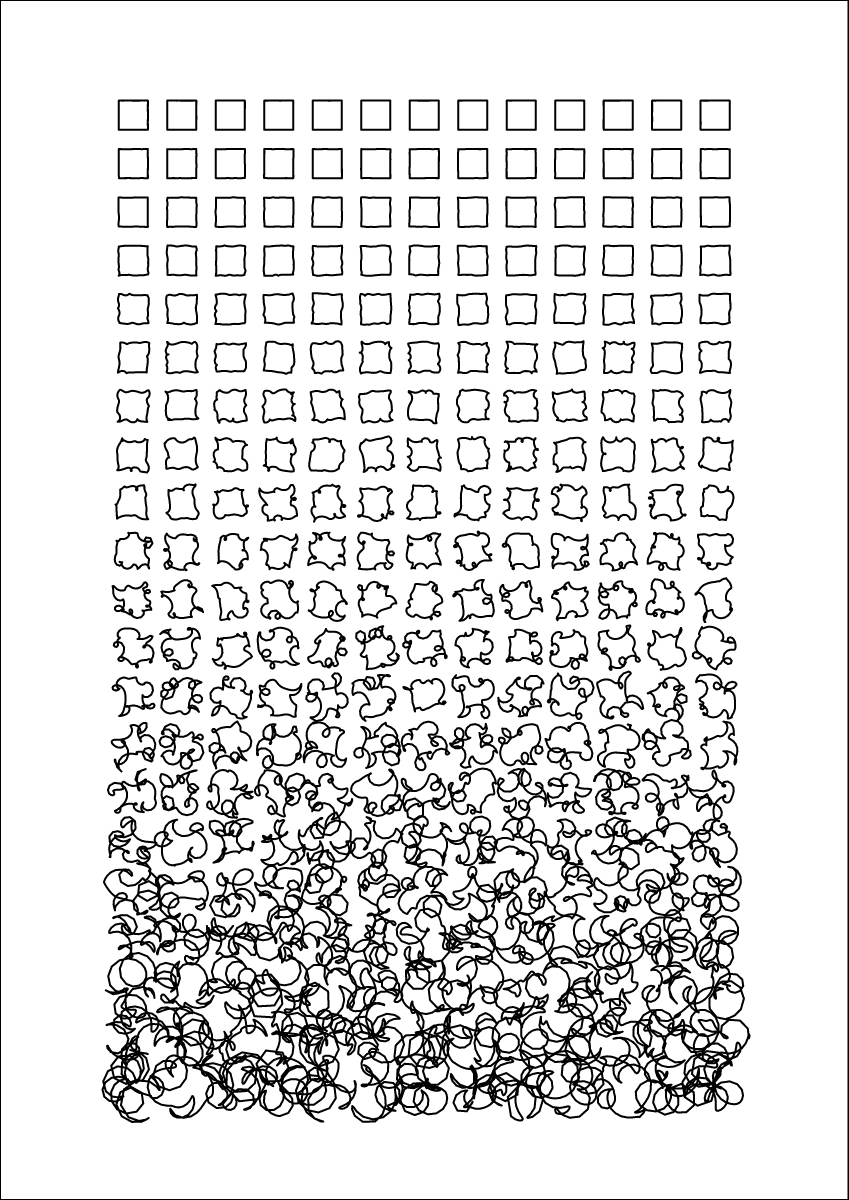
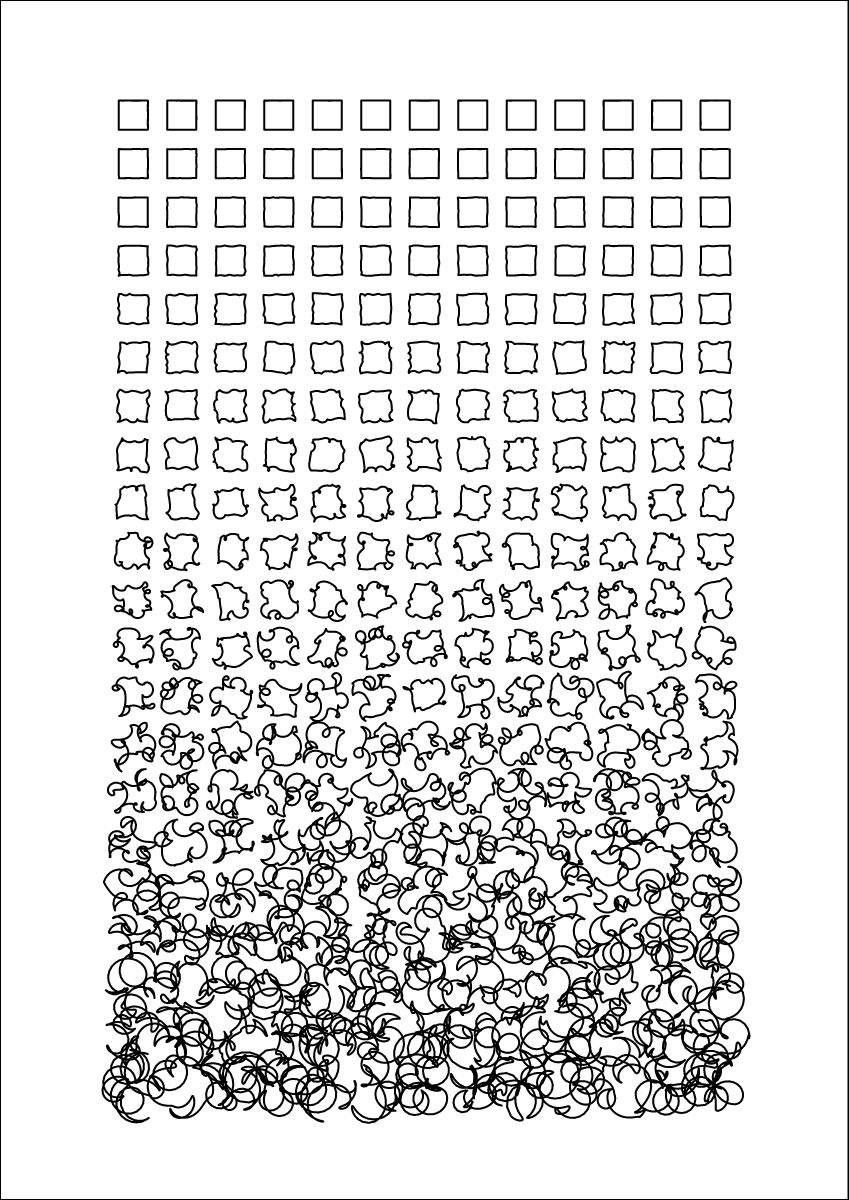
update example resolution

diff --git a/examples/scribbles/scribbles/src/generate.rs b/examples/scribbles/scribbles/src/generate.rs
@@ -47,7 +47,7 @@ pub fn generate(params: Params) -> Layer {
     let frame = params.paper.frame();
     let inner = frame.inner_rect();
     let grid = Grid::with_cell_size(inner, params.cell_size, 0.0);
-    let sample_settings = SampleSettings::new(40.0);
+    let sample_settings = SampleSettings::new(80.0);
 
     let squares = grid.iter().map(|cell| {
         // 0 at the top row, 1 at the bottom
